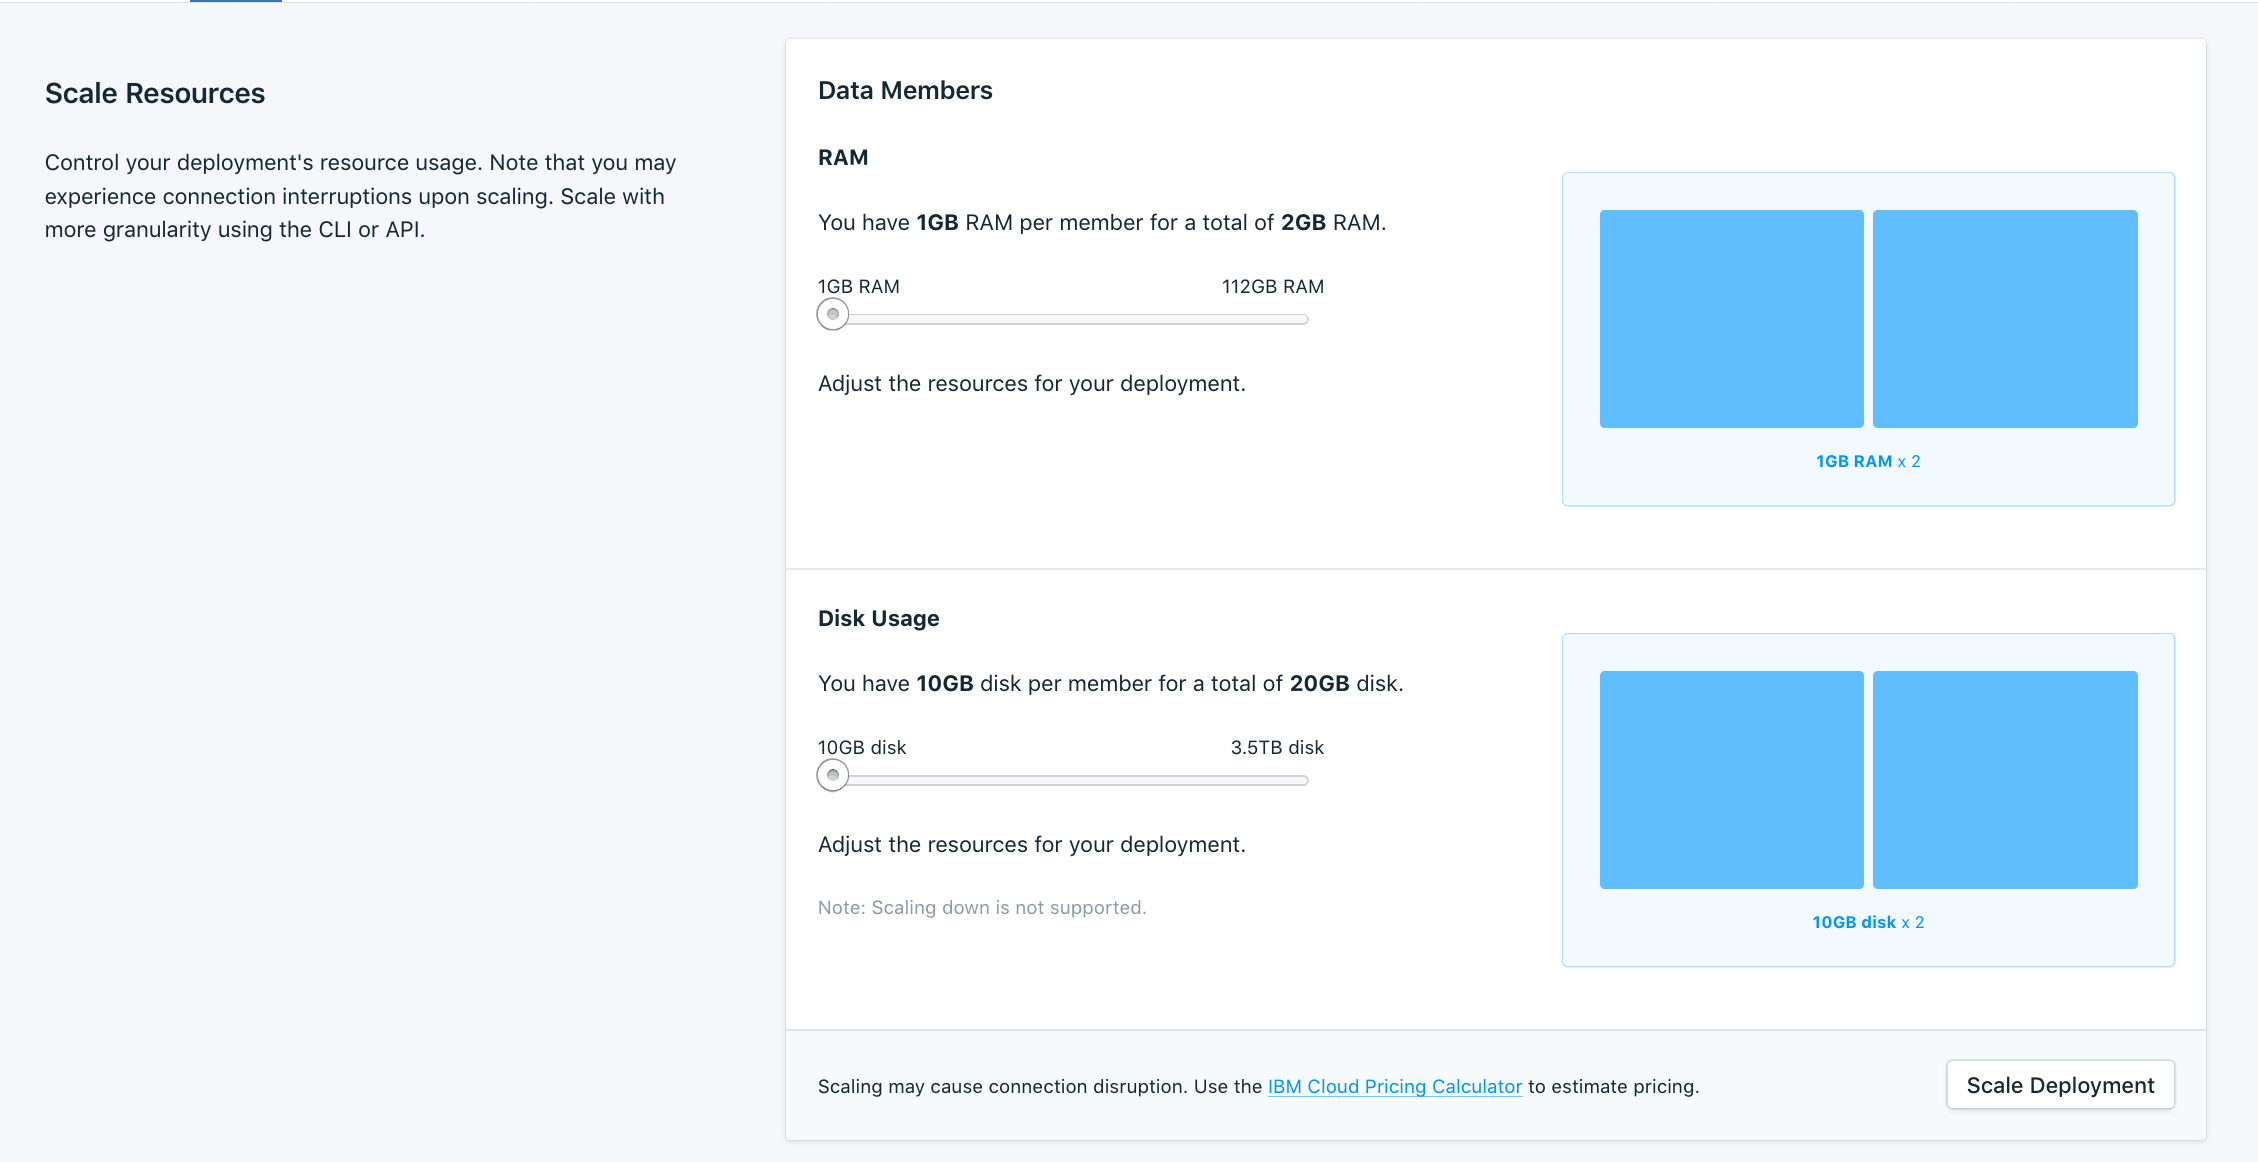
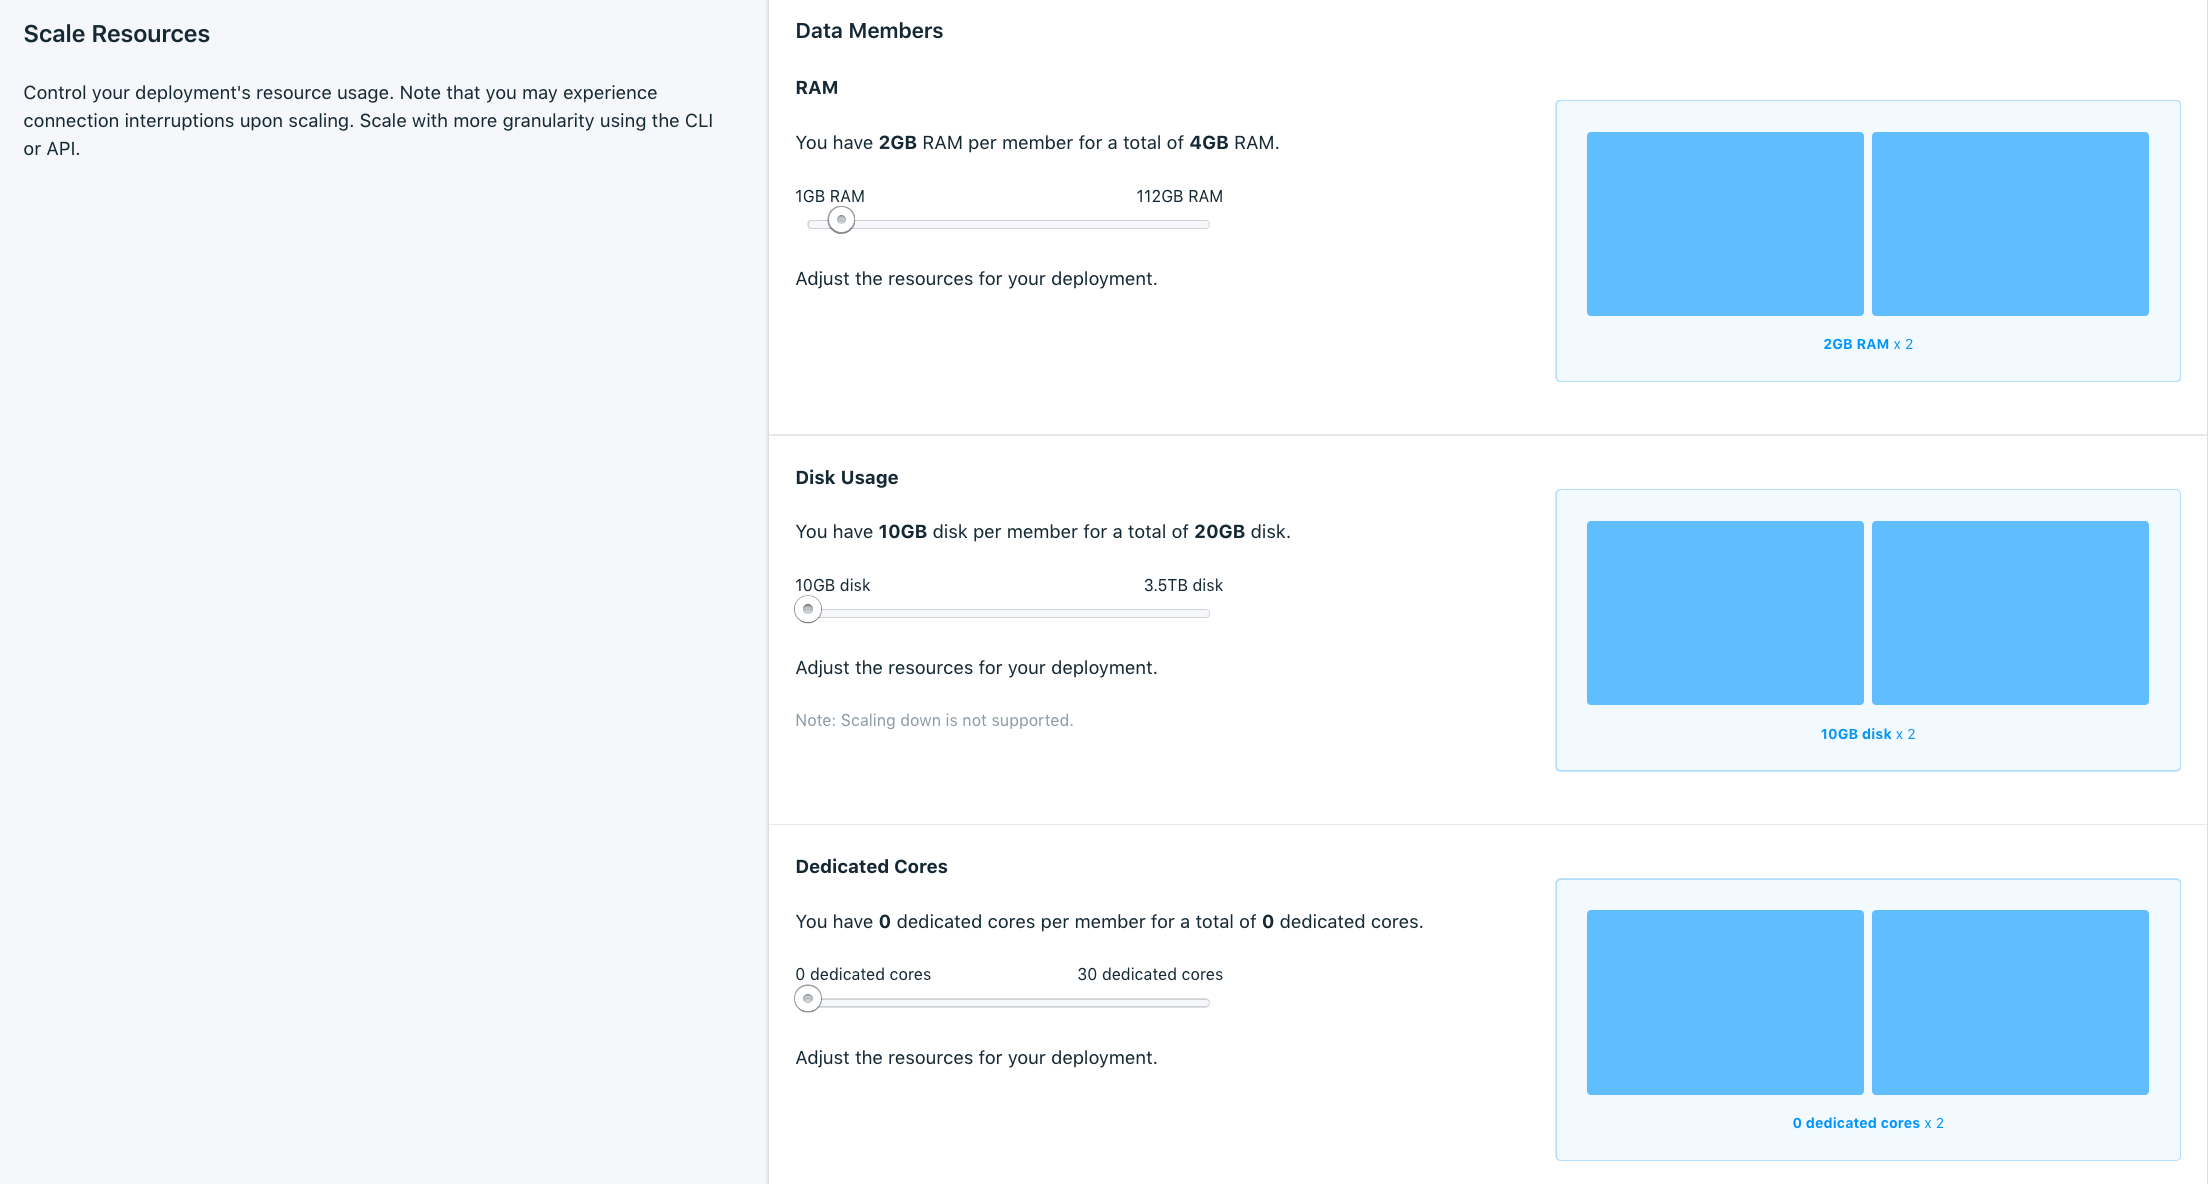
CPU Enabling/Scaling for all deployments (#14)
* initial wording for making dedicated cores more widely available

* updating dates updated

* fixing a keyword

* updating scaling screenshot

* taking better screenshot

* adding cli output for CPU in scaling

* updating text to match cli output

diff --git a/howto-resources-scaling.md b/howto-resources-scaling.md
@@ -2,7 +2,7 @@
 
 Copyright:
   years: 2019
-lastupdated: "2019-04-08"
+lastupdated: "2019-09-07"
 
 keywords: mongodb, databases, scaling
 
@@ -45,7 +45,10 @@ Memory resources are used for database operations and also controls the amount o
 The amount of memory you allocate to your deployment is split between both members. Adding memory to the total allocation adds memory to both members equally.
 
 **Dedicated Cores** - 
-If you provisioned your deployment with dedicated cores, you can increase the CPU allocation to the deployment. This option is not available on deployments that were not provisioned with an initial CPU allocation.
+You can enable or increase the CPU allocation to the deployment. With dedicated cores, your resource group is given a single-tenant host with a guaranteed minimum reserve of cpu shares. Your deployment is then allocated the number of CPUs you specify. The default of 0 dedicated cores uses compute resources on shared hosts.
+
+A few scaling operations can be more long running than others. Enabling dedicated cores moves your deployment to its own host and can take longer than just adding more cores. Similarly, drastically increasing RAM or Disk can take longer than smaller increases to account for provisioning more underlying hardware resources.
+{: .tip}
 
 ## Scaling in the UI
 
@@ -65,10 +68,17 @@ Group   member
 Count   2
 |
 +   Memory
-|   Allocation              2048mb
-|   Allocation per member   1024mb
+|   Allocation              4096mb
+|   Allocation per member   2048mb
 |   Minimum                 2048mb
 |   Step Size               256mb
+|   Adjustable              true
+|
++   CPU
+|   Allocation              0
+|   Allocation per member   0
+|   Minimum                 6
+|   Step Size               2
 |   Adjustable              true
 |
 +   Disk
@@ -79,7 +89,7 @@ Count   2
 |   Adjustable              true
 ```
 
-The deployment has two members, with 2048 MB of RAM and 20480 MB of disk allocated in total. The "per member" allocation is 1024 MB of RAM and 10240 MB of disk. The minimum value is the lowest the total allocation that can be set. The step size is the smallest amount by which the total allocation can be adjusted.
+The deployment has two members, with 4096 MB of RAM and 20480 MB of disk allocated in total. The "per member" allocation is 2048 MB of RAM and 10240 MB of disk. The minimum value is the lowest the total allocation that can be set. The step size is the smallest amount by which the total allocation can be adjusted.
 
 The `cdb deployment-groups-set` command allows either the total RAM or total disk allocation to be set, in MB. For example, to scale the memory of the "example-deployment" to 2048 MB of RAM for each memory member (for a total memory of 4096 MB), you use the command:  
 `ibmcloud cdb deployment-groups-set example-deployment member --memory 4096`

diff --git a/pricing.md b/pricing.md
@@ -1,9 +1,9 @@
 ---
 copyright:
   years: 2019
-lastupdated: "2019-05-01"
+lastupdated: "2019-09-07"
 
-keyowrds: maongodb, databases, pricing
+keyowrds: mongodb, databases, pricing
 
 subcollection: databases-for-mongodb
 
@@ -51,7 +51,7 @@ Users also receive their total disk space purchased, per database, in free backu
 
 ## Dedicated Cores Pricing
 
-When you provision, you have the option of selecting the initial CPU allocation for your deployment. With dedicated cores, your resource group is given a single-tenant host with a guaranteed minimum reserve of cpu shares. Your deployments are then allocated the number of CPUs you specify. The cost of dedicated cores is $45 per core per month, and each member gets the selected number of cores. For example, if you provision a deployment with 3 dedicated cores per member, that is a total of 6 cores, and billed at $270 per month. 
+You have the option of selecting the CPU allocation for your deployment. With dedicated cores, your resource group is given a single-tenant host with a guaranteed minimum reserve of cpu shares. Your deployments are then allocated the number of CPUs you specify. The cost of dedicated cores is $45 per core per month, and each member gets the selected number of cores. For example, if you provision a deployment with 3 dedicated cores per member, that is a total of 6 cores, and billed at $270 per month. 
 
 Dedicated cores are an optional feature. The default `Shared CPU` setting provisions your deployment on hosts with shared compute resources and incurs no additional charge.
 
